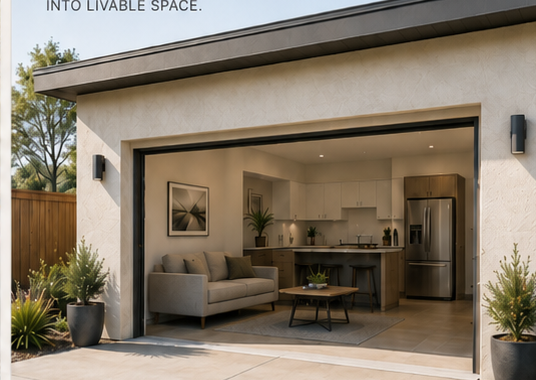
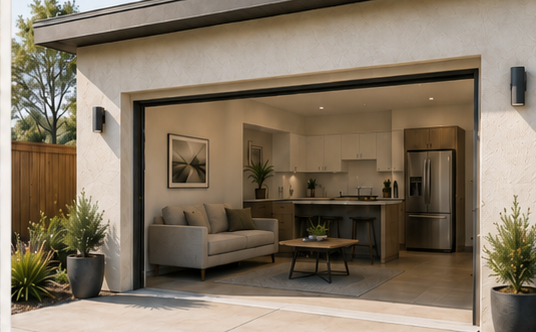
ADU: crop baked-in "INTO LIVABLE SPACE." text out of garage image
The stray caption was rendered into garage_conversion.png itself (top band), not
the DOM. Crop the top 48px off the image (536x380 -> 536x332) and update the
garage card aspect-ratio to match. No layout/other-card changes.

Claude-Session: https://claude.ai/code/session_01GAh6MkM3yhexiMetHxEGcR

diff --git a/app/client-demos/client-8889/residential/services/[slug]/page.tsx b/app/client-demos/client-8889/residential/services/[slug]/page.tsx
@@ -277,7 +277,7 @@ const CSS = `
 .adu-attached{grid-column:2;grid-row:1}
 .adu-attached .adu-img{aspect-ratio:536/421}
 .adu-garage{grid-column:2;grid-row:2}
-.adu-garage .adu-img{aspect-ratio:536/380}
+.adu-garage .adu-img{aspect-ratio:536/332}
 @media(max-width:820px){
   .adu-grid{grid-template-columns:1fr}
   .adu-detached{grid-column:1;grid-row:auto}
